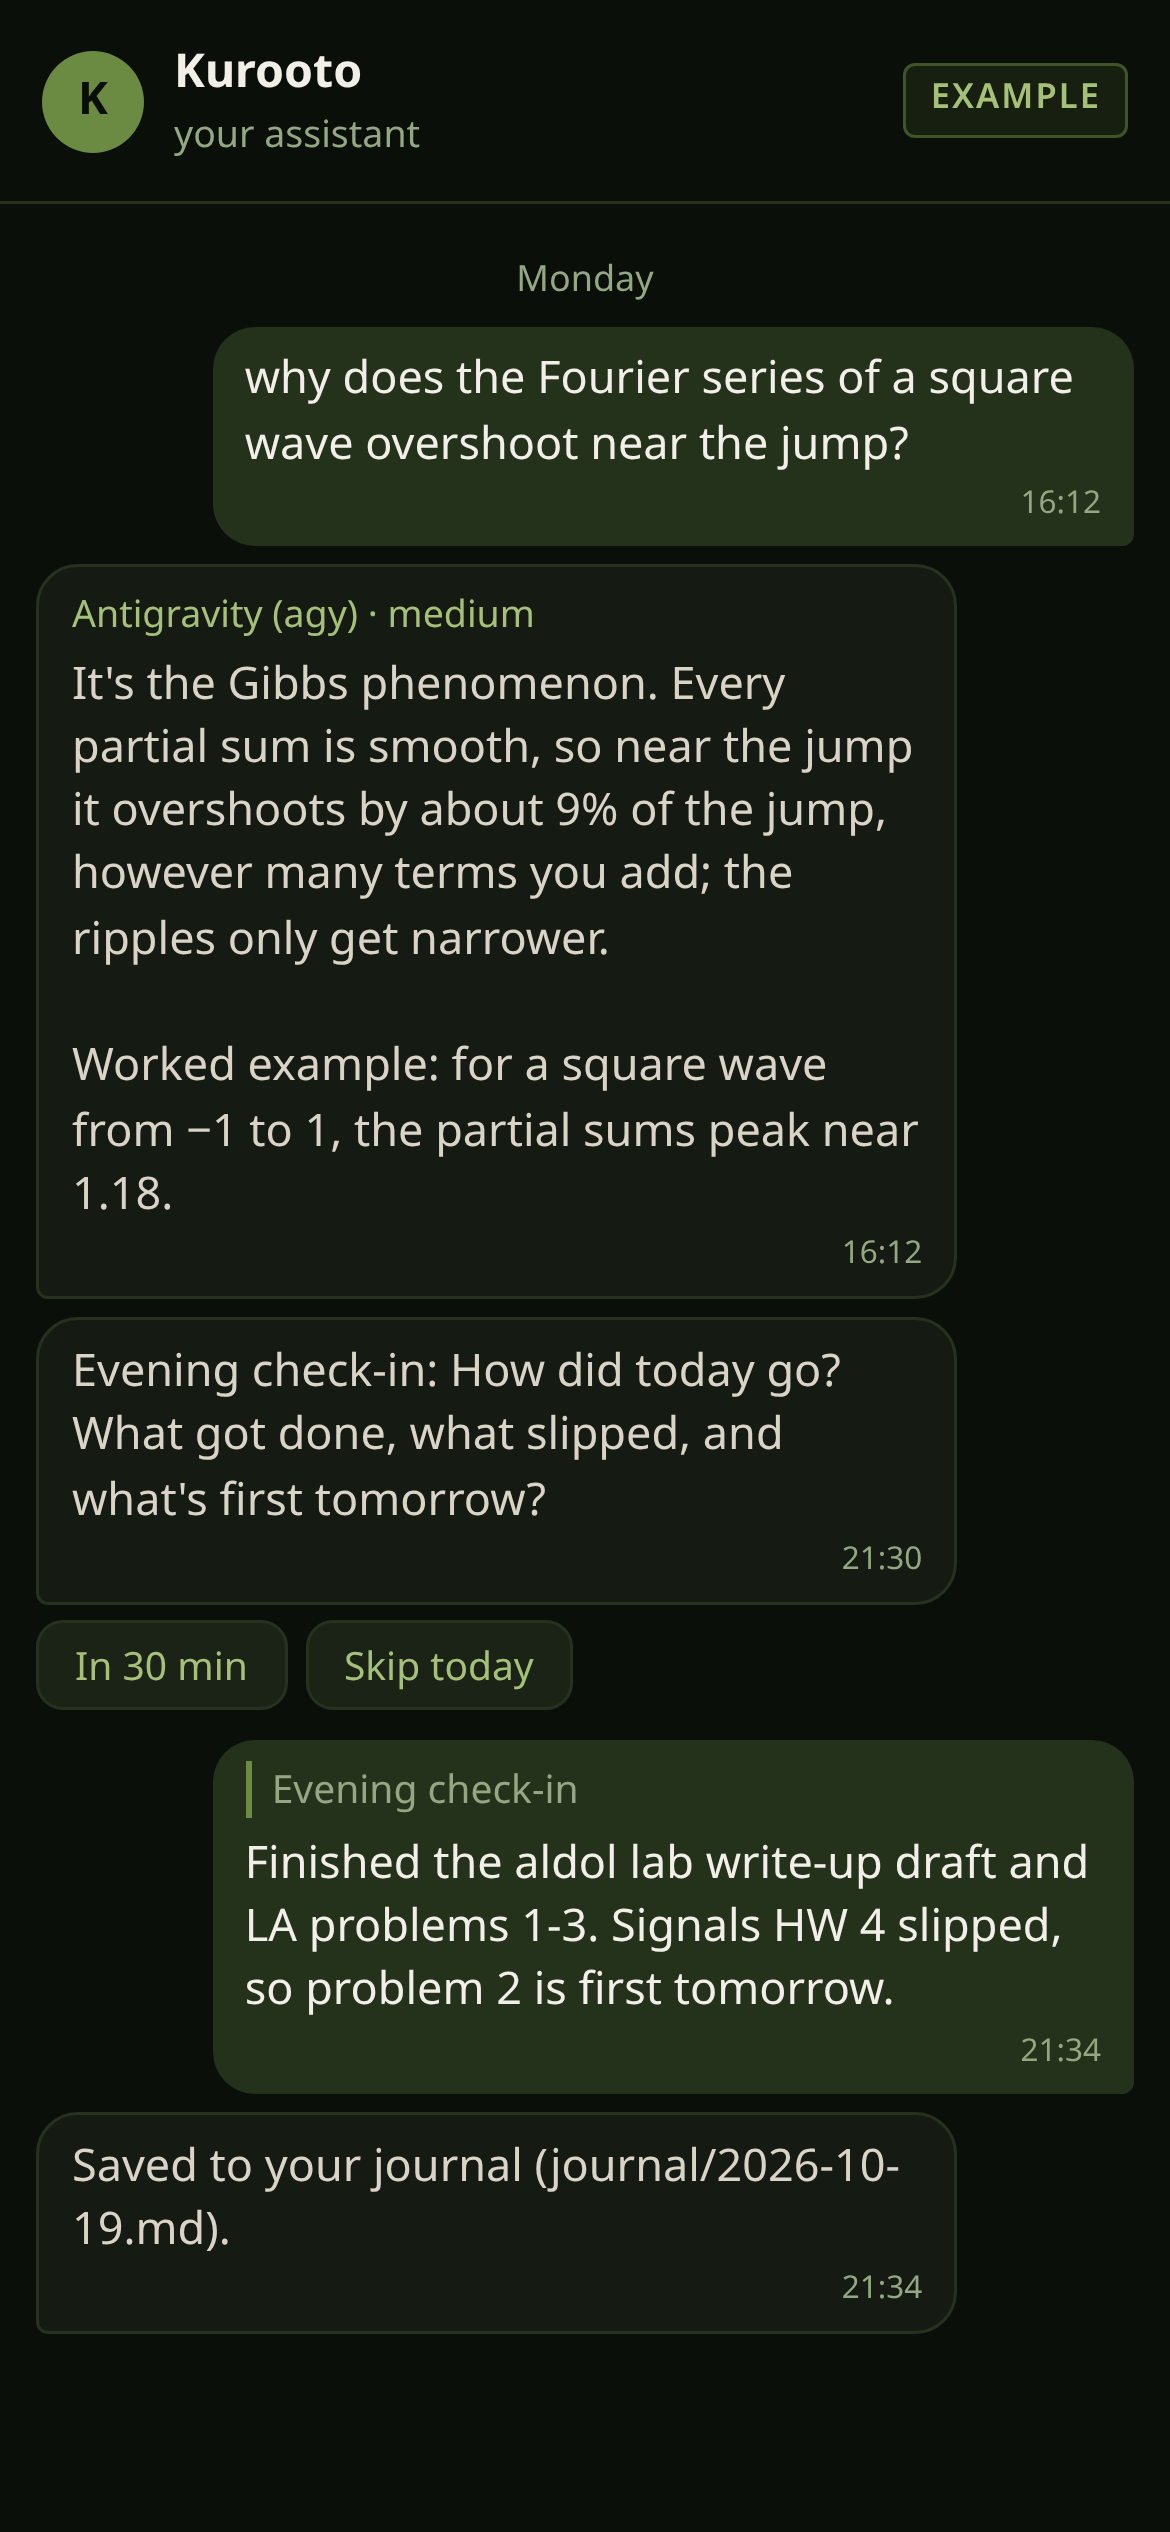
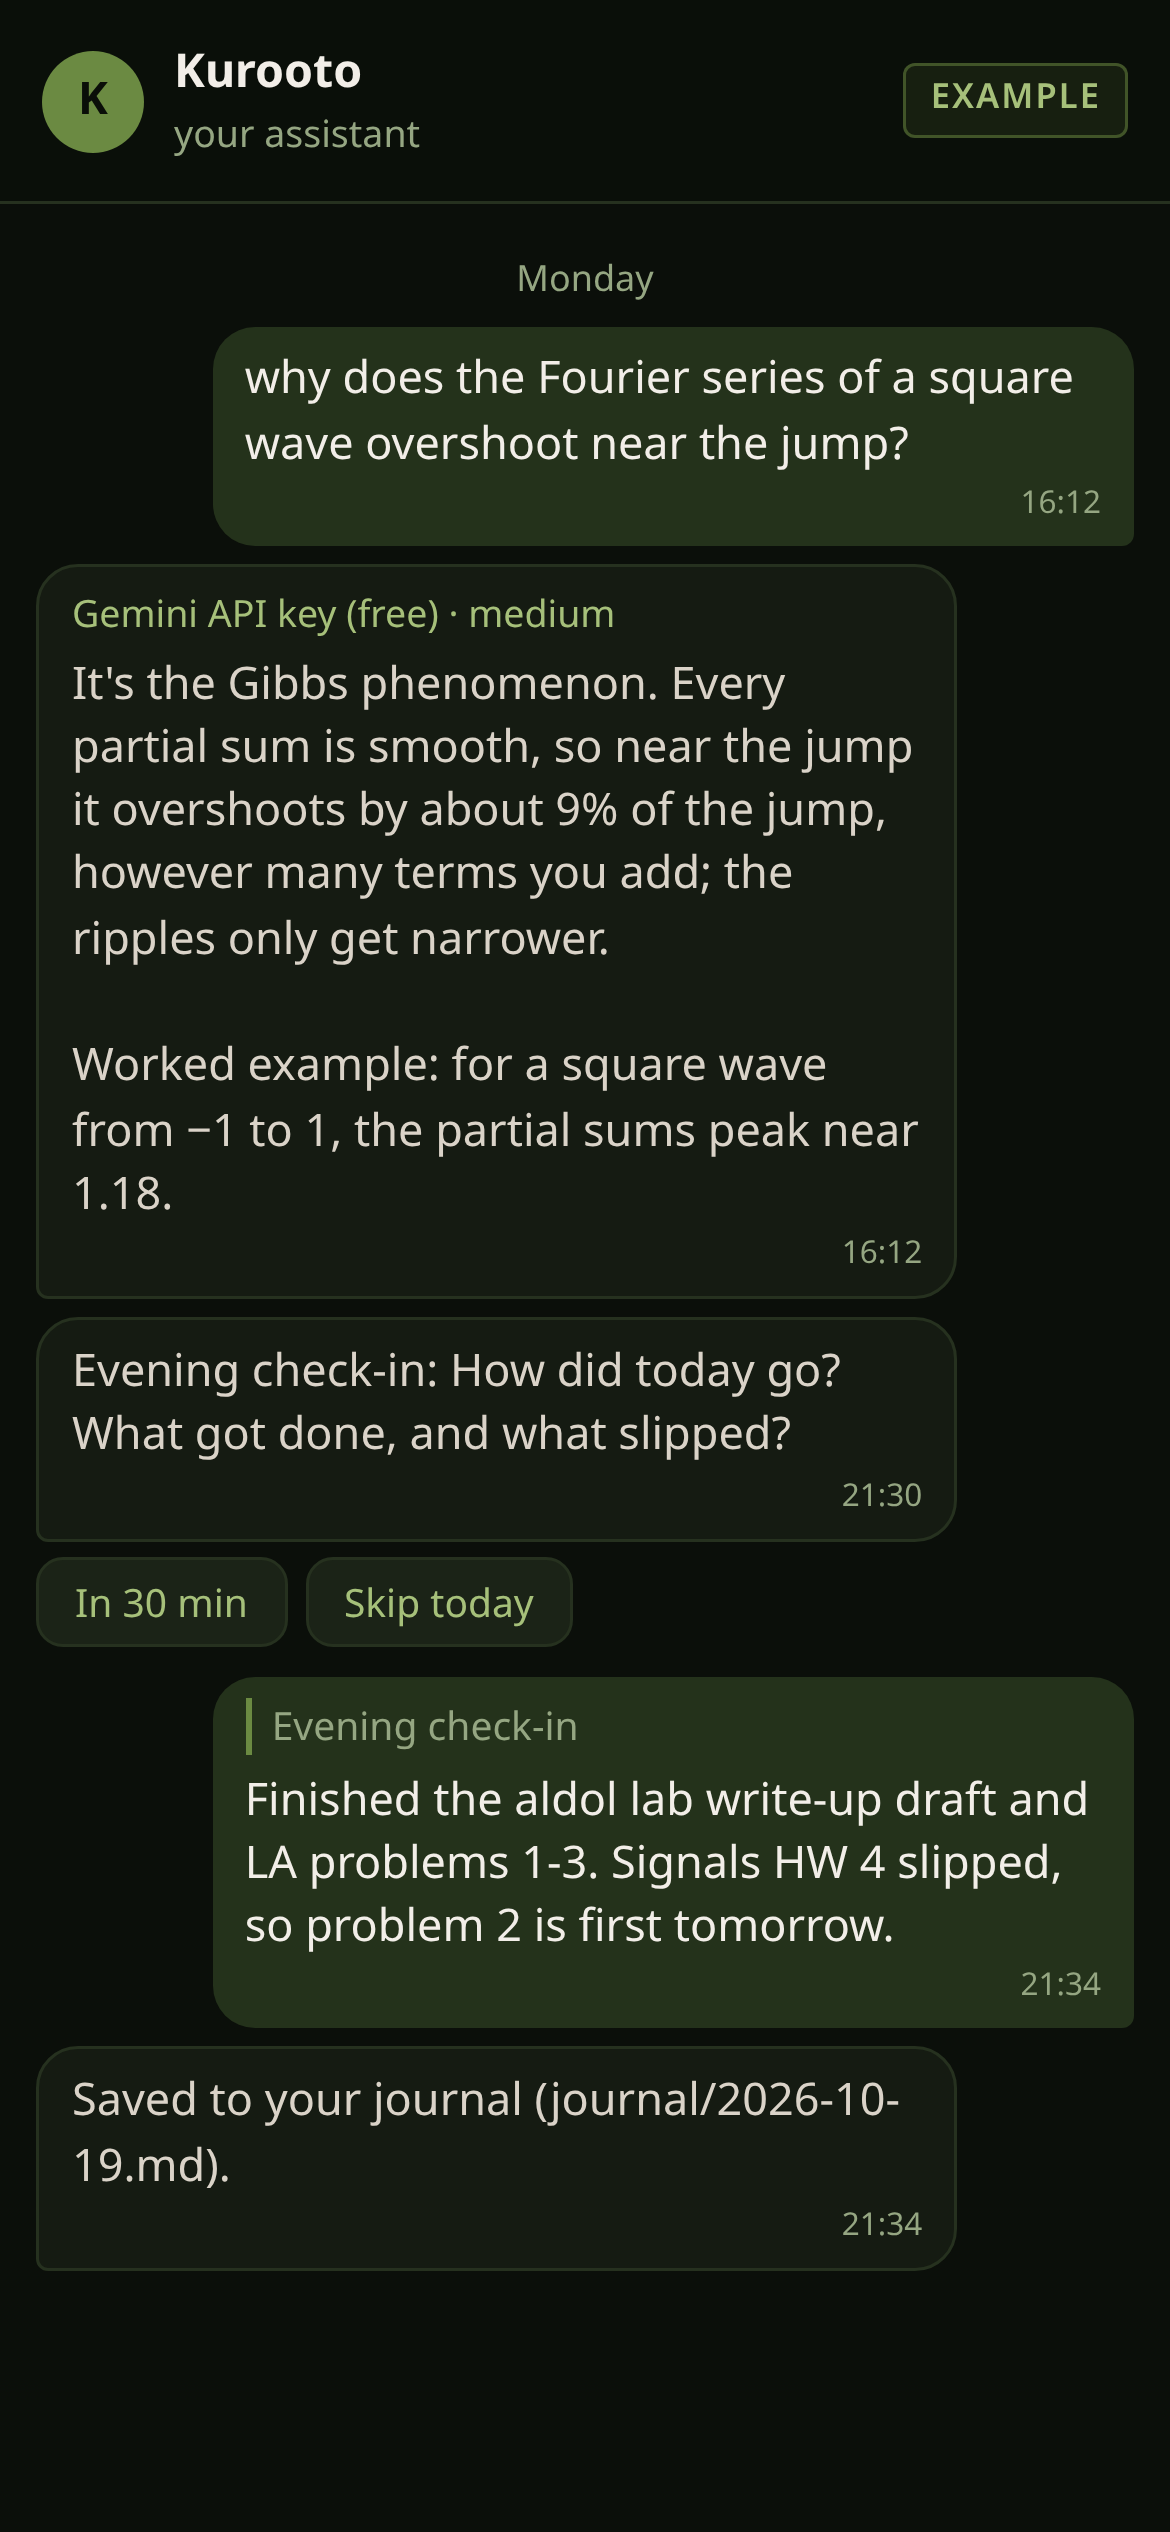
Site: 0.2.0 screenshots

diff --git a/privacy.html b/privacy.html
@@ -154,6 +154,7 @@ h1, h2, h3 { color: var(--text-bright); font-weight: 700; }
 <h1 id="what-leaves-your-computer">What leaves your computer</h1>
 <p>Kurooto runs on your computer, and every feature is off until you turn it on. This page lists, per feature, exactly what goes where. <strong>Nothing is ever sent to Kurooto's author</strong> (no analytics, no crash reports, no "phone home"). The only things Kurooto fetches from its own release page are updates, checked against a signature.</p>
 <p>Everything below goes to services you chose, under your own accounts.</p>
+<p>The screenshots in the README and on the website are of a demo with made-up data ("Sam") and stand-in services; none of them shows anyone's real notes, chats or accounts. The pages' colours (<code>look.palette</code>) are a setting on this computer only.</p>
 <h2 id="always-when-the-feature-is-on">Always (when the feature is on)</h2>
 <div class="table-wrap"><table><thead><tr><th>Feature</th><th>What leaves</th><th>Where to</th></tr></thead><tbody><tr><td>Telegram</td><td>your messages to the bot and its replies; files you send it</td><td>Telegram (to your own bot)</td></tr><tr><td>Questions and approvals</td><td>the question or approval, wherever Kurooto reaches you; open ones are also in the brief your call line keeps (see Phone calls)</td><td>Telegram (your own bot) and your paired phones; desktop notifications stay on this computer</td></tr><tr><td>Chat with your AI</td><td>what you ask; notes the AI reads to answer; what its tools return (a note's text, your reminders or deadlines); the short "In brief" part of your profile and your how-to-help-me note</td><td>the AI service you picked (Google for agy/Gemini, OpenAI for Codex, Anthropic for Claude Code, the service you entered for a custom one, or nothing for local models)</td></tr><tr><td>Files into notes</td><td>with Chat on, the files you send, for the AI to file them</td><td>the AI service you picked</td></tr><tr><td>Skills</td><td>what you send with a skill and the notes it reads; for <code>/newskill</code>, your description and the names of your tools and skills</td><td>the AI service you picked</td></tr><tr><td>Skills: revision packs</td><td>Tectonic (if you install it) downloads LaTeX packages; nothing of yours is sent</td><td>Tectonic's package server (public)</td></tr><tr><td>Sending files (<code>kurooto send</code>, the AI's send-file tool)</td><td>the file</td><td>Telegram (to your own bot)</td></tr><tr><td>Check-ins</td><td>nothing; with Check-ins by call and Chat on: what you said on the check-in call (after the evening debrief, both sides of it), for the AI to write your journal and study logs</td><td>the AI service you picked</td></tr><tr><td>Quiz</td><td>nothing; with Chat on: the question from your notes and your answer, for the AI to grade</td><td>the AI service you picked</td></tr><tr><td>Weekly summary</td><td>nothing; with the Sunday review call and Chat on: the call's transcript, to write the weekly review</td><td>the AI service you picked</td></tr><tr><td>After-class notes</td><td>nothing; with Chat on: your answer and the photos and files you sent with it, for the AI to write a study log</td><td>the AI service you picked</td></tr><tr><td>Notes brain (GBrain)</td><td>nothing on computers with a graphics card or Apple Silicon (the index is made locally); on others, note text, to make the index. The nightly upkeep and timelines add nothing: the upkeep's index step sends note text to Google only if your index already uses Gemini. Kurooto turns off GBrain's own update check, so GBrain makes no calls to its release page</td><td>Google (Gemini, your key), unless you chose keyword-only</td></tr><tr><td>Remember</td><td>your how-to-help-me note (<code>about-me/how-to-help-me.md</code>) goes along with every AI request, like the profile's "In brief" part; health, money and password details are refused, never stored</td><td>the AI service you picked</td></tr><tr><td>Nightly look back</td><td>what happened (events: what you answered, moved, skipped, and when), Kurooto's questions and your answers, today's call transcripts and journal (each can be left out), your how-to-help-me note and the values of the settings it may change; for a skill change you approved, that skill's text</td><td>the AI service you picked</td></tr><tr><td>Phone calls</td><td>call audio and what's said on calls; the call setup (your name, the assistant's name, which tools exist); for calls while the computer is off: a short brief (what's due, today's classes and check-ins, open questions, quiz questions, the alarm), the steps for check-in, wake-up and Sunday review calls with what they need (today's plan from your daily note, today's classes, study hours counted, the week's numbers), and your notes' titles, headings and first lines</td><td>Google (Gemini Live, your key); your own Cloudflare account (your call line)</td></tr><tr><td>Phone calls: ringing and messages</td><td>"a call is ringing" messages, and the questions, approvals and messages you choose for the phone (<code>notify.app_kinds</code>), end-to-end encrypted (only your paired phones can read them)</td><td>ntfy.sh (Android) or Apple/Google push services (web app; the push itself is empty)</td></tr><tr><td>Phone calls: what's waiting</td><td>the text of open questions, approvals and messages sent to your phones (at most 40; a message is gone after a day, a question or approval once it's answered or expires), so the iPhone app can list them</td><td>your own Cloudflare account (your call line)</td></tr><tr><td>Morning alarm</td><td>the alarm time; with Chat on, the AI reads your notes before the alarm to draft the day's plan, and the wake-up call's transcript to settle it</td><td>your call line; the AI service you picked</td></tr><tr><td>Voice notes</td><td>the recordings</td><td>Google (Gemini, your key)</td></tr><tr><td>Calendar</td><td>nothing leaves; Kurooto reads your calendar's private link. Event descriptions are read only for <code>#nocall</code> and <code>#focus</code> and aren't kept</td><td>(read from Google/Outlook/Apple)</td></tr><tr><td>Notes sync</td><td>your whole notes folder</td><td>your own private GitHub repository</td></tr><tr><td>Notes sync + Phone calls</td><td>read access to that repository, so calls can read notes while the computer is off</td><td>your call line (its secret store)</td></tr><tr><td>Backups</td><td>a zip of Kurooto's settings, data and state (AI requests and answers, check-ins, deadlines, your profile reports); your notes and your keys only if you turn them on. Not encrypted</td><td>only the folder you pick; if your computer syncs that folder to a cloud (Google Drive, OneDrive, iCloud, Dropbox), that cloud</td></tr><tr><td>Profile sync</td><td>your settings, passwords and keys, and saved state (deadlines, quiz progress, routines, observations, scheduled reminders and calls), all encrypted with your passphrase before they leave; in plain text only when it was saved, Kurooto's version, the kind of computer and a random id for it</td><td>your own private GitHub repository (the one Notes sync uses, or another you pick)</td></tr><tr><td>Google</td><td>Kurooto reads Classroom and, with Gmail drafts on, writes drafts in your Gmail; nothing is sent from your Gmail without your tap</td><td>Google, with your own client and sign-in</td></tr><tr><td>Classroom → notes</td><td>Classroom posts and the text of their attached files, to write the notes</td><td>the AI service you picked; read from Google with your own client</td></tr><tr><td>Mail digest</td><td>the text of the mail you chose for the digest (senders, domains and labels you named; on a school or work account, your own domain). Other mail, mail marked confidential (in its subject, anywhere in its text including standard confidentiality footers, or its labels) and your never-read list: nothing, they're only counted on your computer. Work or school mail may be covered by your institution's email policy; Kurooto never summarises mail marked confidential with the AI you picked</td><td>the AI service you picked; read from Gmail with your own client</td></tr><tr><td>Mail digest, confidential mail in local mode (opt-in, <code>mail_digest.confidential</code> = <code>local</code>)</td><td>nothing: a model on this computer (Ollama, 127.0.0.1) summarises it; the summary stays in Kurooto's data folder (<code>mail/confidential/</code>, readable only by your user account), out of your notes, Telegram (a count only), Profile sync and Backups (unless <code>backups.confidential_mail</code>)</td><td>stays on this computer</td></tr><tr><td>Email reply drafts</td><td>the draft reply, written into your Gmail Drafts; sent only when you tap Send</td><td>Google (your Gmail)</td></tr><tr><td>Agent plan calendar</td><td>the time blocks (title and time), in Kurooto's own calendar</td><td>Google (your Google Calendar)</td></tr><tr><td>Handwritten notes</td><td>the scans and photos</td><td>Google (Gemini, your key), unless a local vision model handles them</td></tr><tr><td>About you</td><td>the reports you add stay on this computer (Kurooto's data folder, not synced); building the profile sends them to the AI you picked, and its short "In brief" part goes along with every AI request</td><td>the AI service you picked</td></tr><tr><td>Research</td><td>your fields, keywords and searches (never your notes)</td><td>the sources you pick: arXiv, bioRxiv/medRxiv, PubMed, feeds (all public)</td></tr><tr><td>Research: <code>kurooto watch</code></td><td>the command's name, exit code, duration and last lines (<code>--lines 0</code>: none)</td><td>Telegram (your own bot), like any message</td></tr><tr><td>Terminals</td><td>nothing by themselves (see <a href="#your-own-code-and-terminals">Your own code and terminals</a>)</td><td>stays on your computer</td></tr><tr><td>Your add-ons</td><td>nothing by the feature itself; your add-ons' own code can do anything Kurooto can, so they send whatever they're written to send</td><td>wherever your add-ons send it</td></tr><tr><td>Local AI models, Reminders, Deadlines (with recurring quizzes, the not-interested list and exam mode), Subjects, Study tracker (and its daily note section), Quick notes and prompts, Stay awake on charger, Sync everything (each sync sends what its own feature sends), <code>kurooto top</code>, <code>kurooto runlog</code>, notes brain timelines and weekly checkup</td><td>nothing</td><td>stays on your computer</td></tr></tbody></table></div>
 <h2 id="free-tiers-and-terms">Free tiers and terms</h2>

diff --git a/index.html b/index.html
@@ -314,7 +314,7 @@ h1, h2, h3 { color: var(--text-bright); font-weight: 700; }
         <article class="interest-card"><span class="interest-num">02</span><h3 class="interest-title">It calls you</h3>
           <p class="interest-desc">Real voice calls on your own free call line: check-ins, reminders and a morning alarm, on Android or iPhone.</p></article>
         <article class="interest-card"><span class="interest-num">03</span><h3 class="interest-title">Your choice of AI</h3>
-          <p class="interest-desc">Antigravity, a free Gemini key, ChatGPT/Codex, Claude Code, FreeLLMAPI or local models with Ollama, with a fallback.</p></article>
+          <p class="interest-desc">A Gemini API key (recommended), Antigravity, ChatGPT/Codex, Claude Code, FreeLLMAPI or local models with Ollama, with a fallback.</p></article>
         <article class="interest-card"><span class="interest-num">04</span><h3 class="interest-title">Deadlines and study</h3>
           <p class="interest-desc">Subjects and timetable, a deadline radar, spaced-repetition quizzes, study time tracking and after-class notes.</p></article>
         <article class="interest-card"><span class="interest-num">05</span><h3 class="interest-title">Notes it can search</h3>
@@ -376,9 +376,9 @@ h1, h2, h3 { color: var(--text-bright); font-weight: 700; }
             <p class="interest-desc">Your AI's own program, a shell, plain English and Kurooto's log, for a computer that's yours alone.</p></figcaption>
         </figure>
         <figure class="shot-card">
-          <a href="media/setup-features.webp"><img class="crop shot-dark" src="media/setup-features.webp" width="2080" height="2786" loading="lazy" decoding="async"
+          <a href="media/setup-features.webp"><img class="crop shot-dark" src="media/setup-features.webp" width="2080" height="2859" loading="lazy" decoding="async"
             alt="The setup wizard's features step: each feature as a card saying what it does and what leaves the computer, with a recommended Starter set."><img
-            class="crop shot-light" src="media/setup-features-light.webp" width="2080" height="2786" loading="lazy" decoding="async"
+            class="crop shot-light" src="media/setup-features-light.webp" width="2080" height="2859" loading="lazy" decoding="async"
             alt="The setup wizard's features step, in the light theme."></a>
           <figcaption><h3 class="interest-title">Only what you turn on</h3>
             <p class="interest-desc">Each feature says what it does and what leaves your computer. Start with the recommended set and add more later.</p></figcaption>
